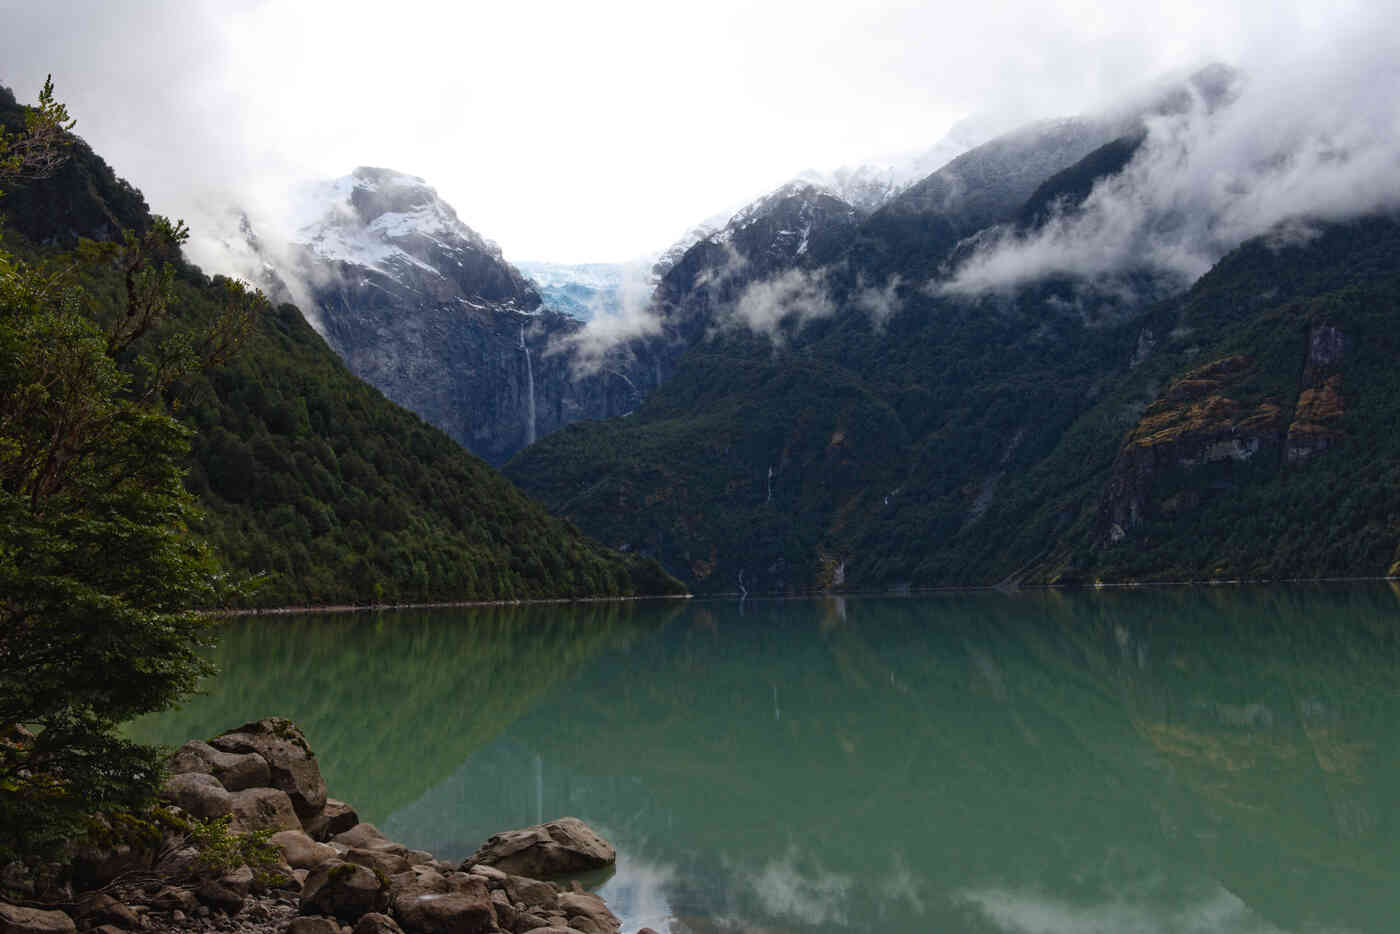
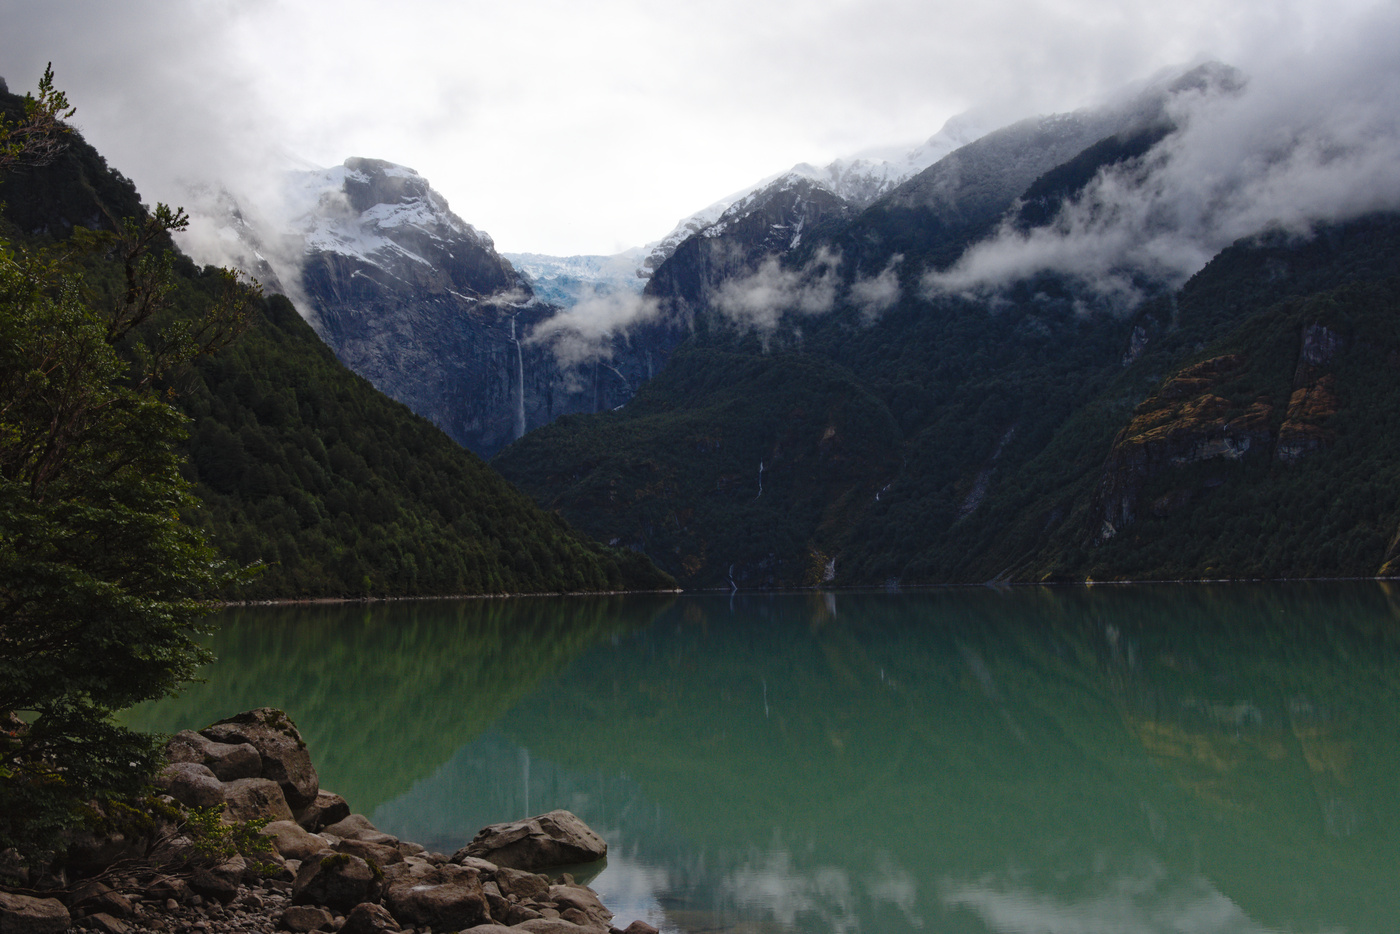
Update posts

diff --git a/_drafts/carretera_austral_chapter5.md b/_drafts/carretera_austral_chapter5.md
@@ -3,7 +3,7 @@ layout: post
 title: Carretera Austral - Fully pack day
 #date: 2024-03-16
 description: A hiking and cycling day
-thumbnail: assets/img/carretera_austral_010.jpg
+thumbnail: assets/img/carretera_austral_014.jpg
 giscus_comments: true
 tags: cycling trips carretera-austral
 categories: travel
@@ -12,13 +12,10 @@ images:
   slider: true
 ---
 
-<swiper-container keyboard="true" navigation="true" pagination="true" pagination-clickable="true" pagination-dynamic-bullets="true" rewind="true">
-  <swiper-slide>{% include figure.liquid loading="eager" path="assets/img/carretera_austral_011.jpg" class="img-fluid rounded z-depth-1" %}</swiper-slide>
-  <swiper-slide>{% include figure.liquid loading="eager" path="assets/img/carretera_austral_030.jpg" class="img-fluid rounded z-depth-1" %}</swiper-slide>
-</swiper-container>
+{% include figure.liquid path="assets/img/carretera_austral_014.jpg" class="img-fluid rounded z-depth-1" zoomable=true %}
 
 <div class="caption">
-    Rosselot lake and confluence of Palena and Rosselot rivers.
+    Laguna Tempanos and the Ventisquero Colgante, Queulat National Park.
 </div>
 
 The day started as planned.
@@ -29,17 +26,17 @@ There workers were arriving and preparing to continue with the access road maint
 
 ## The Ventisquero Colgante
 
-{% include figure.liquid path="assets/img/carretera_austral_012.jpg" class="img-fluid rounded z-depth-1" zoomable=true %}
-
-<div class="caption">
-    Puyuhuapi from Los Canelos Trail.
-</div>
-
 The entrance to the NP was smooth.
 To access the park reservations were necessary but payment had to be made at the entrance.
 I was amongst the first group of people to enter the park, together with a couple of Chilean friends and a couple of foreign tourist.
 After a quick debrief about which trails were open, I parked my bike and prepared to walk.
 First to the lagoon (Laguna Tempanos) were I got a clear view of the glacier, but as was taking my last pictures a cloud started to form in front of the glacier.
+
+{% include figure.liquid path="assets/img/carretera_austral_033.jpg" class="img-fluid rounded z-depth-1" zoomable=true %}
+
+<div class="caption">
+    Ventisquero Colgante covered by clouds.
+</div>
 
 I calculated that I had to leave by noon if I wanted to arrive at a good time to my next destination or in case I had any accident or longer than predicted stop.
 So if I wanted to reach the lookout closer to the glacier I would had to run a bit.
@@ -58,18 +55,67 @@ I arrived to the parking at noon, had something to eat, refilled the water bottl
 
 ## Gravel and amazing roads
 
-{% include figure.liquid path="assets/img/carretera_austral_031.jpg" class="img-fluid rounded z-depth-1" zoomable=true %}
+{% include figure.liquid path="assets/img/carretera_austral_015.jpg" class="img-fluid rounded z-depth-1" zoomable=true %}
 
 <div class="caption">
-    Canelo tree.
+    The top of the *cuesta* Queulat.
 </div>
 
+The paved road was soon replaced by gravel as the road started to travel along the Queulat river.
+The section before the *cuesta* Queulat had some paved sections, part of unfinished works done by a company that ran out of business during  the pandemic, though some people said the company wasn't the best for the job even before.
+Either way, these sections provide a bit of calm from the jumpy road.
+With a wide river head joining the sea at one side, many people say that toninas can be seen in that section, but I wasn't lucky or maybe I was too late.
+As the road was approaching the *cuesta*, I was thinking what would I do I had a mechanical or wasn't able to continue.
+The road seemed at that point very solitary and quiet, so my mind was going to dark places even in a bright day.
 
-{% include figure.liquid path="assets/img/carretera_austral_032.jpg" class="img-fluid rounded z-depth-1" zoomable=true %}
+The *cuesta* Queluat is a series of hairpins that climb some 500 m over 5 km in the toughest part, and some people say the most difficult part of the Carretera.
+As soon the first hairpin arrived I got into some problems.
+There you can find a path to a waterfall, so I stopped to the side of the road but couldn't find a place to leave the bike (my bike doesn't have a kickstand).
+Even keeping the bight up straight was difficult, more so getting back on the saddle, because the road was dry and covered by loose dust with little grip.
+It turned out most hairpins were like this, and in some of the lower flatter sections the dusty roads felt like riding in sand.
+So much so, that I had to stop in a section because I couldn't keep up straight and a driver in small truck coming behind me offered to carry me, but the climb was just starting so I just said thank but I was going to continue trying.
+Knowing that people are kind in this part of of the country helped to overcome those dark thoughts I had in the middle of nowhere.
+
+{% include figure.liquid path="assets/img/carretera_austral_034.jpg" class="img-fluid rounded z-depth-1" zoomable=true %}
 
 <div class="caption">
-    Sunset at Puyuhuapi fjord.
+    Puntiagudo from the road next the Cisnes river.
 </div>
+
+After a few hairpins I got a grasp of how to face them, basically going wide and not getting in my lowest gear.
+By the top, they were less dusty.
+I saw a few more cars going up and down, but this time not being completely on the high season was in my favour because even with these few cars I got to cross their dust clouds.
+Closer to the top the views got better, with snowy peaks on each side and a bright day throughout.
+At the top also, the road was was replaced by brand new tarmac, so the descent to the Cisnes river valley was very smooth.
+
+{% include figure.liquid path="assets/img/carretera_austral_016.jpg" class="img-fluid rounded z-depth-1" zoomable=true %}
+
+<div class="caption">
+    Empty roads and snowy mountains.
+</div>
+
+The ride down to valley had some amazing views, so were the views in the valley.
+Here the road follows the Cisnes river into an open valley with some large farms and surrounded by breathtaking mountains.
+The next town along the road was Villa Amengual.
+Although some people recommend to stay there, it seems that there aren't any camping sites and hostels are not the best.
+A cyclist refuge use to be in the village, but some people reported that it burned down and that the current status is not as good.
+So I considered two other camping sites before the village.
+
+{% include figure.liquid path="assets/img/carretera_austral_017.jpg" class="img-fluid rounded z-depth-1" zoomable=true %}
+
+<div class="caption">
+    Cisnes river, near the camping site.
+</div>
+
+The first one I passed soon after getting into the valley, but I only considered this one as a backup if I was running late.
+The second one was recommended by the owners of the hostel in Villa Santa Lucia.
+I contacted the owners of this camping when I stopped in Puyuhuapi, as I learned that some places were still closed.
+The camping ([Refugio Río Cisnes](https://www.refugioriocisnes.com/)) is a large place next to the Cisnes river.
+I was the only one camping that night, but days before a large group of foreign cyclists had passed by.
+This was one of the best camping sites on the Carretera Austral.
+The camping has a cafe for people traveling by other means, where they offer food.
+Most of the reviews recommend their pizzas, however when I arrived they didn't have the ingredients so they were out buying.
+Nonetheless, their cinnamon buns were amazing and their sandwiches replenished my energy levels after a long day on the saddle.
 
 #### Maps:
 

diff --git a/_posts/2024-03-09-carretera_austral_chapter4.md b/_posts/2024-03-09-carretera_austral_chapter4.md
@@ -73,6 +73,12 @@ So I decided to move to a camping site closer to the park (the camping site insi
 These campings were just a few kms from Puyuhuapi, so I just took my time defrosting/drying my tent with an incipient sun light.
 Before leaving the town, I enjoyed a last visit to the cafe to have a kuchen and hot coffee.
 
+{% include figure.liquid path="assets/img/carretera_austral_013.jpg" class="img-fluid rounded z-depth-1" zoomable=true %}
+
+<div class="caption">
+    The road next to the fjord.
+</div>
+
 There were two working camping sites near the park, my first option was slightly after the entrance of the park (further away from Puyuhuapi).
 When I got there, the toilets and showers looked clean, but the sites were not quite ready and you can see that sheep had used them recently for protection.
 So I went to the other option, which was before and further back from the entrance to the park.
